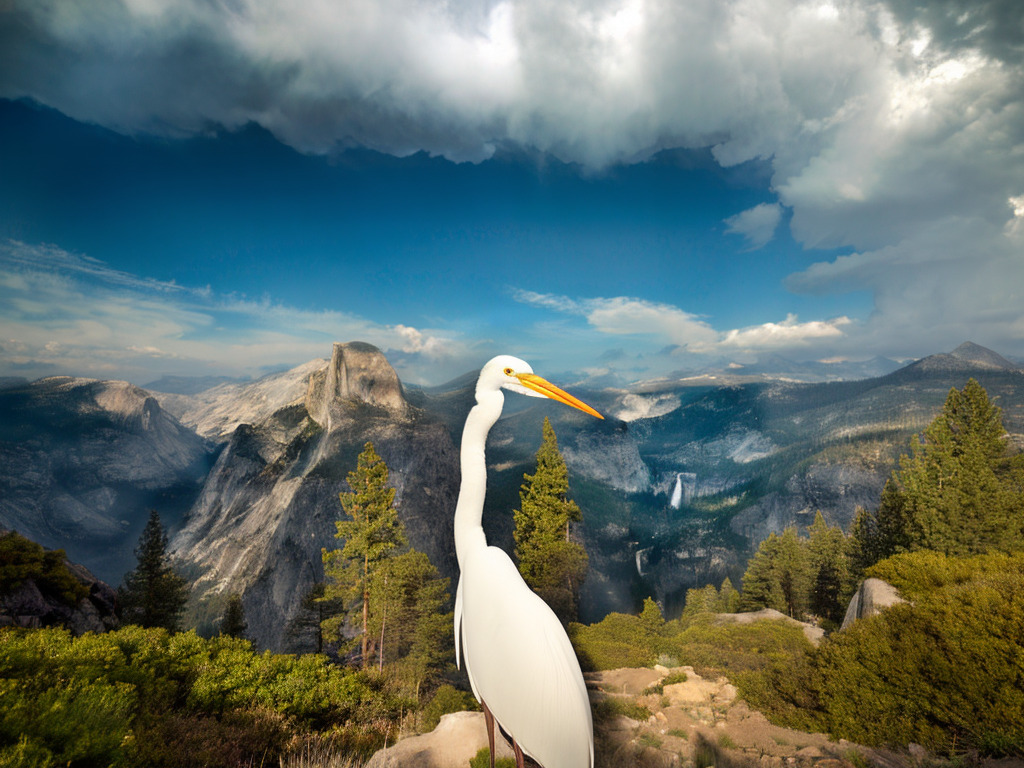
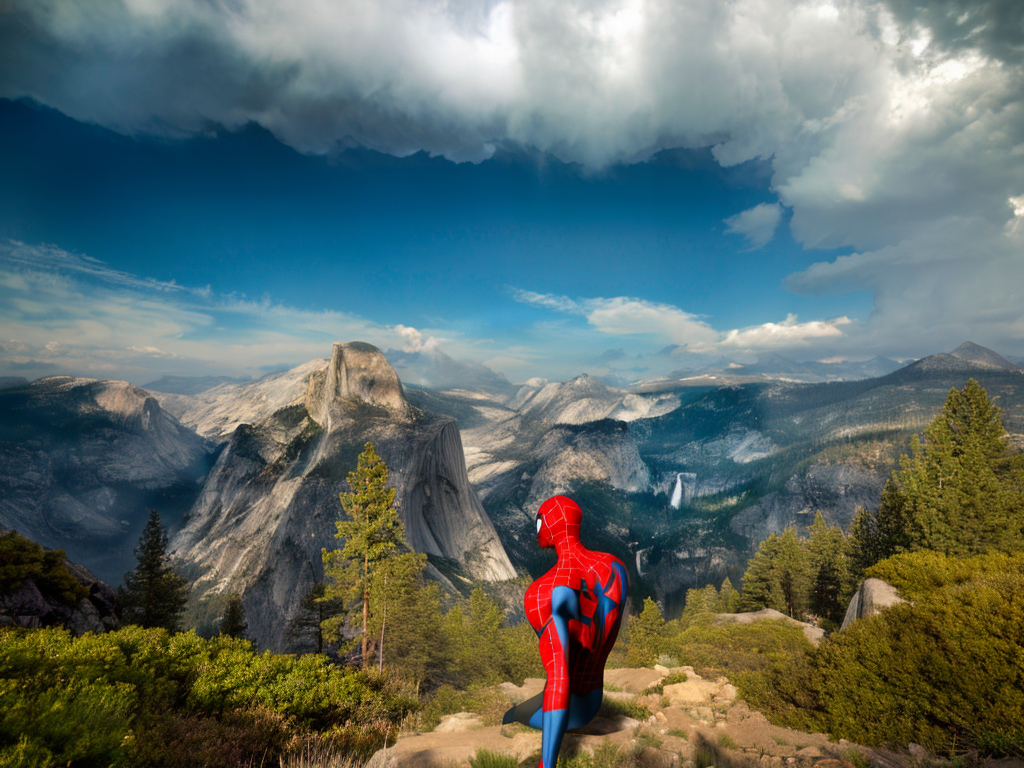
improve infer script

Changed region(s): [[0.375, 0.4375, 0.625, 1.0]]

diff --git a/06_gpu_and_ml/comfyui/comfy_ui.py b/06_gpu_and_ml/comfyui/comfy_ui.py
@@ -1,5 +1,6 @@
 # ---
 # cmd: ["modal", "serve", "06_gpu_and_ml/comfyui/comfy_ui.py"]
+# deploy: true
 # ---
 #
 # # Run a ComfyUI workflow as an API
@@ -14,8 +15,7 @@
 #
 # 2. Serve a ComfyUI workflow as an API
 #
-# The primary goal of this example is to demonstrate an easy way to deploy an existing ComfyUI workflow on Modal.
-# This unified UI / API example makes it easy to iterate on your workflow even after deployment.
+# Combining the UI and the API in a single app makes it easy to iterate on your workflow even after deployment.
 # Simply fire up the interactive UI, make your changes, export the JSON, and redeploy the app.
 #
 # An alternative approach is to port your ComfyUI workflow from the JSON format to Python code.
@@ -24,14 +24,26 @@
 #
 # ## Quickstart
 #
-# 1. Run `modal serve 06_gpu_and_ml/comfyui/comfy_ui.py` to stand up the ComfyUI server.
-# This example serves the [ComfyUI inpainting example workflow](https://comfyanonymous.github.io/ComfyUI_examples/inpaint/) behind an API.
-# Inpainting is the process of filling in an image with another generated image.
+# This example serves the [ComfyUI inpainting example workflow](https://comfyanonymous.github.io/ComfyUI_examples/inpaint/),
+# which "fills in" part of an input image based on a prompt,
+# For the prompt `"Spider-Man visits Yosemite, rendered by Blender, trending on artstation"`,
+# on [this input image](https://raw.githubusercontent.com/comfyanonymous/ComfyUI_examples/master/inpaint/yosemite_inpaint_example.png) we got this output:
 #
-# 2. Run inference with a text prompt: `python 06_gpu_and_ml/comfyui/infer.py --prompt "white heron"`. This creates the following image:
 # ![example comfyui image](./comfyui_gen_image.jpg)
 #
-# First inference time will take a bit longer for the ComfyUI server to boot (~30s). Successive inference calls while the server is up should take ~3s.
+# 1.Stand up the ComfyUI server in development mode:
+# ```bash
+# modal serve 06_gpu_and_ml/comfyui/comfy_ui.py
+# ```
+#
+# 2. In another terminal, run inference:
+# ```bash
+# python 06_gpu_and_ml/comfyui/infer.py --dev --modal-workspace your-modal-workspace --prompt "your prompt here"
+# ```
+# You can find your Modal workspace name by running `modal profile current`.
+#
+# The first inference will take a bit longer, because the server will need to boot up (~20-30s).
+# Successive inference calls while the server is up should take a few seconds or less.
 #
 # ## Setup
 #
@@ -153,7 +165,7 @@ class ComfyUI:
 # Save the exported JSON to the `workflow_api.json` file in this directory.
 #
 # Then, redeploy the app with this new workflow by running `modal deploy 06_gpu_and_ml/comfyui/comfy_ui.py` again.
-
+#
 # ## Further optimizations
 #
 # There is more you can do with Modal to further improve performance of your ComfyUI API endpoint.

diff --git a/06_gpu_and_ml/comfyui/infer.py b/06_gpu_and_ml/comfyui/infer.py
@@ -1,5 +1,5 @@
 # ---
-# lambda-test: false
+# cmd: ["python", "06_gpu_and_ml/comfyui/infer.py", "--modal-workspace", "modal-labs", "--prompt", "Spider-Man visits Yosemite, rendered by Blender, trending on artstation"]
 # ---
 
 import argparse
@@ -11,7 +11,7 @@ import requests
 
 
 def main(args: argparse.Namespace):
-    url = "https://modal-labs--example-comfyui-comfyui-api-dev.modal.run/"
+    url = f"https://{args.modal_workspace}--example-comfyui-comfyui-api{'-dev' if args.dev else ''}.modal.run/"
     data = {
         "prompt": args.prompt,
         "input_image_url": "https://raw.githubusercontent.com/comfyanonymous/ComfyUI_examples/master/inpaint/yosemite_inpaint_example.png",
@@ -22,23 +22,42 @@ def main(args: argparse.Namespace):
     if res.status_code == 200:
         end_time = time.time()
         print(
-            f"Image finished generating in {round(end_time - start_time)} seconds!"
+            f"Image finished generating in {round(end_time - start_time, 1)} seconds!"
         )
         filename = "comfyui_gen_image.png"
-        (pathlib.Path.home() / filename).write_bytes(res.content)
+        (pathlib.Path(__file__).parent / filename).write_bytes(res.content)
         print(f"saved '{filename}'")
     else:
-        print("Request failed!")
+        if res.status_code == 404:
+            print(f"Workflow API not found at {url}")
+        res.raise_for_status()
 
 
 def parse_args(arglist: list[str]) -> argparse.Namespace:
     parser = argparse.ArgumentParser()
 
     parser.add_argument(
-        "--prompt",
-        default="white heron",
+        "--modal-workspace",
         type=str,
-        help="object to draw into the image",
+        required=True,
+        help="Name of the Modal workspace with the deployed app. Run `modal profile current` to check.",
+    )
+    parser.add_argument(
+        "--prompt",
+        type=str,
+        required=True,
+        help="what to draw in the blank part of the image",
+    )
+    parser.add_argument(
+        "--dev",
+        action="store_true",
+        help="use this flag when running the ComfyUI server in development mode with `modal serve`",
+    )
+    parser.add_argument(
+        "--input_image-url",
+        default="https://github.com/comfyanonymous/ComfyUI_examples/blob/abcc12912ca11f2f7a36b3a36a4b7651db907459/inpaint/yosemite_inpaint_example.png",
+        type=str,
+        help="URL of the image to inpaint",
     )
     return parser.parse_args(arglist[1:])
 
